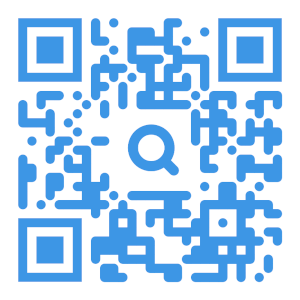
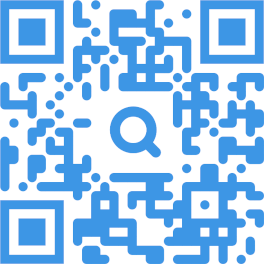
qr adjusted

diff --git a/dist/css/main.min.css b/dist/css/main.min.css
@@ -1,1 +1,1 @@
-*,::after,::before{box-sizing:border-box;margin:0;padding:0}h1,h2,h3,h4,h5,h6{margin:0;font-family:inherit;line-height:inherit;font-weight:700}address,p{margin:0}ol,ul{margin:0;padding:0;list-style:none}input,textarea{outline:0;font-family:inherit}a{color:inherit;text-decoration:none}a:hover{text-decoration:none}img{max-width:100%}@font-face{font-family:Roboto;font-style:normal;font-weight:400;font-display:swap;src:local(""),url(../fonts/roboto-v30-latin_cyrillic-ext-regular.woff2) format("woff2"),url(../fonts/roboto-v30-latin_cyrillic-ext-regular.woff) format("woff")}@font-face{font-family:Roboto;font-style:normal;font-weight:500;font-display:swap;src:local(""),url(../fonts/roboto-v30-latin_cyrillic-ext-500.woff2) format("woff2"),url(../fonts/roboto-v30-latin_cyrillic-ext-500.woff) format("woff")}@font-face{font-family:Roboto;font-style:normal;font-weight:700;font-display:swap;src:local(""),url(../fonts/roboto-v30-latin_cyrillic-ext-700.woff2) format("woff2"),url(../fonts/roboto-v30-latin_cyrillic-ext-700.woff) format("woff")}:root{scroll-behavior:smooth}::-moz-selection{color:#353642;background:#3d96e5}::selection{color:#353642;background:#3d96e5}::-moz-placeholder{color:#7c7c7c;font-family:inherit;font-size:1.125rem;text-overflow:ellipsis}::placeholder{color:#7c7c7c;font-family:inherit;font-size:1.125rem;text-overflow:ellipsis}.hero__illustration,.password-check-page__illustration,.qr-img{width:100%;height:100%;-o-object-fit:cover;object-fit:cover;-o-object-position:center;object-position:center}input[type=number]{-moz-appearance:textfield}input[type=number]::-webkit-inner-spin-button,input[type=number]::-webkit-outer-spin-button{-webkit-appearance:none}body{font-family:Roboto,sans-serif;color:#353642;font-size:1.125rem;line-height:1.1;font-weight:400;background-image:linear-gradient(180deg,rgba(0,117,255,.38) 3.74%,rgba(0,194,255,.38) 21.16%,rgba(255,255,255,.38) 44.17%);background-repeat:no-repeat;min-height:100%;padding:4rem;overflow-x:hidden}@media (max-width:767.98px){body{padding:2rem}}@media (max-width:389.98px){body{padding:2rem 0}}.container{max-width:calc(1400px + 2rem);padding:0 1rem;margin:0 auto;width:100%}.wrapper{margin:0 auto;max-width:calc(1400px + 2rem);background-color:#fff;box-shadow:0 4px 60px rgba(0,0,0,.25);border-radius:50px;padding:0 3rem}@media (max-width:767.98px){.wrapper{padding:0 1rem}}@media (max-width:575.98px){.wrapper{padding:0}}h1{color:#3d96e5;font-size:2.25rem}h2{color:#3d96e5;font-size:1.5rem}.logo{font-family:Roboto;font-weight:500;font-size:2.25rem;color:#3d96e5}.button{display:inline-block;font-size:1.125rem;color:#3d96e5;background-color:#fff;border-radius:30px;border:1px solid #3d96e5;box-shadow:0 2px 4px rgba(0,0,0,.1);padding:.625rem 1.25rem;cursor:pointer;-webkit-user-select:none;-moz-user-select:none;user-select:none;transition:.2s}@media (hover:hover){.button:hover{color:#fff;background-color:#3d96e5}}.button:active{background-color:#1970bc}.button--main{display:inline-block;font-size:1.125rem;color:#fff;background-color:#3d96e5;padding:.625rem 1.25rem;border:1px solid #3d96e5;box-shadow:0 2px 4px rgba(0,0,0,.1);border-radius:30px;cursor:pointer;-webkit-user-select:none;-moz-user-select:none;user-select:none;transition:.2s}@media (hover:hover){.button--main:hover{background-color:#1c7dd3}.burger:hover{opacity:.5}}.button--main:active{background-color:#1970bc}.qr-img-wrapper{display:block;position:relative;overflow:hidden;width:10.375rem;height:10.375rem;padding:.25rem;border:1px solid #3d96e5;border-radius:10px}.hidden{display:none!important}.visually-hidden{position:fixed;opacity:0;z-index:-100}.disabled{pointer-events:none;color:#666}input[disabled]{-webkit-user-select:none;-moz-user-select:none;user-select:none}.error-label{display:block;font-size:.875rem;color:#c92c2c;text-align:left;margin-top:.625rem;margin-right:auto;padding-left:20px}.error-input:focus{box-shadow:none!important}.error-input{border:1px solid #c92c2c!important}@-webkit-keyframes slideDown{0%{overflow:hidden;opacity:0;transform:translateY(-20%)}100%{opacity:1;transform:translateY(0)}}@keyframes slideDown{0%{overflow:hidden;opacity:0;transform:translateY(-20%)}100%{opacity:1;transform:translateY(0)}}.header{padding:2rem 0}.header__body{display:flex;justify-content:space-between;align-items:center}.burger{width:25px;height:20px;color:#3d96e5;display:none;position:relative;background-color:transparent;border:none;padding:0;cursor:pointer;z-index:50}.burger::after,.burger::before{height:2px;content:"";position:absolute;left:0;width:100%;background-color:currentColor;z-index:50;transition:transform .3s ease-in-out,top .3s ease-in-out}.burger::before{top:0}.burger::after{top:calc(100% - 2px)}.burger__line{height:2px;position:absolute;left:0;top:50%;transform:scale(1) translate(0,-50%);width:100%;background-color:currentColor;z-index:50;transition:transform .3s ease-in-out}.burger--active::before{top:50%;transform:rotate(45deg);transition:transform .3s ease-in-out,top .3s ease-in-out}.burger--active::after{top:50%;transform:rotate(-45deg);transition:transform .3s ease-in-out,top .3s ease-in-out}.burger--active .burger__line{transform:scale(0);transition:transform .3s ease-in-out}@media (max-width:767.98px){.burger{display:block}.burger-menu-overlay{overflow:hidden;position:fixed;width:100%;height:100vh;background-color:rgba(25,25,25,.7);z-index:28;transition:.3s}.header__nav{background-color:#fff;width:calc(100% - 4rem);position:fixed;bottom:0;right:-100%;height:calc(100% - 2rem);border-top-left-radius:50px;border-top-right-radius:50px;visibility:hidden;opacity:0;overflow:hidden;padding:3rem 1rem;z-index:29;transition:.4s}.burger-menu--active.header__nav{visibility:visible;right:2rem;opacity:1}}@media (max-width:767.98px) and (max-width:389.98px){.header__nav{width:100%}.burger-menu--active.header__nav{right:0}}@media (max-width:767.98px){.header__nav>.nav__list{display:flex;flex-direction:column;text-align:center;width:100%;overflow-y:auto}.header__nav>.nav__list>.nav__item{white-space:unset;padding:1rem}}.nav{display:flex;align-items:center}.nav__list{display:flex;flex-flow:row nowrap;gap:1rem}.nav__item{white-space:nowrap}.hero{position:relative;overflow:hidden;z-index:2}.hero__body{padding:11.25rem 0 2rem}@media (max-width:1365.98px){.hero__body{padding:2rem 0;text-align:center}.hero__qr-body{display:none}}@media (max-width:767.98px){.nav__list{gap:0}.hero__body{padding:1rem 0 2rem}}@media (min-width:1365.98px){.hero__body.open{transform:translateY(-10%);transition:transform .3s linear}}.hero__title{color:#3d96e5;font-size:2.25rem;margin-bottom:1.875rem}@media (max-width:991.98px){.hero__title{font-size:1.875rem}}@media (max-width:767.98px){.hero__title{font-size:1.625rem}}@media (max-width:575.98px){.hero__body{padding:0 0 2rem}.hero__title{font-size:1.375rem}}.hero__qr-title{color:#3d96e5;font-size:1.5rem;margin-bottom:.875rem}@media (max-width:767.98px){.hero__qr-title{font-size:1.25rem}}@media (max-width:575.98px){.hero__qr-title{font-size:1.125rem}}.hero__qr-body{visibility:hidden;opacity:0;transition:.1s linear}.hero__qr-body.open{display:block;visibility:visible;opacity:1;-webkit-animation:.3s slideDown;animation:.3s slideDown}.hero__illustration-wrapper{position:absolute;overflow:hidden;height:600px;width:auto;bottom:0;right:0;z-index:-1}@media (max-width:1365.98px){.hero__qr-img-wrapper{margin:0 auto}.form__input-wrapper--short-link,.hero__illustration-wrapper{display:none}}.form__input-wrapper{position:relative;margin-bottom:1.75rem}.form__input-wrapper--long-link{max-width:54rem}@media (max-width:1439.98px){.form__input-wrapper--long-link{max-width:49rem}}.form__input-wrapper--short-link{max-width:29.375rem;visibility:hidden;opacity:0;transition:.1s linear}.form__input-wrapper--short-link.open{display:block;visibility:visible;opacity:1;-webkit-animation:.3s slideDown;animation:.3s slideDown}@media (max-width:767.98px){.form__input-wrapper{font-size:1.625rem;margin-bottom:.875rem}}.form__input{font-family:Roboto;font-weight:400;font-size:1.125rem;padding:15px 60px 15px 20px;width:100%;border:1px solid #3d96e5;border-radius:30px;transition:.2s}.form__input--long-link:focus{box-shadow:3px 3px 20px #3d96e5}.form__button{position:absolute;top:7px;right:10px;width:40px;height:40px;background-color:#3d96e5;border:1px solid #3d96e5;border-radius:30px;cursor:pointer;transition:.1s linear}.form__button--copy,.form__button--submit{padding:10px}@media (hover:hover){.form__button:hover{opacity:.9}}.form__button:active{background-color:#1970bc}.form__button svg{width:20px;height:20px;fill:#fff;transition:opacity .1s linear}.loader{pointer-events:none;border:1px solid #fff;background-color:#fff;-webkit-animation:1s linear infinite rotate;animation:1s linear infinite rotate}.loader svg{opacity:0;transition:opacity .1s linear}.loader::after{content:"";position:absolute;inset:4px;border:2px solid #7c7c7c;background-color:#fff;border-radius:50%;-webkit-animation:2s linear infinite slowFilling;animation:2s linear infinite slowFilling}@-webkit-keyframes rotate{0%{overflow:hidden}100%{transform:rotate(360deg)}}@keyframes rotate{0%{overflow:hidden}100%{transform:rotate(360deg)}}@-webkit-keyframes slowFilling{0%{-webkit-clip-path:polygon(50% 50%,0 0,0 0,0 0,0 0,0 0);clip-path:polygon(50% 50%,0 0,0 0,0 0,0 0,0 0)}25%{-webkit-clip-path:polygon(50% 50%,0 0,100% 0,100% 0,100% 0,100% 0);clip-path:polygon(50% 50%,0 0,100% 0,100% 0,100% 0,100% 0)}50%{-webkit-clip-path:polygon(50% 50%,0 0,100% 0,100% 100%,100% 100%,100% 100%);clip-path:polygon(50% 50%,0 0,100% 0,100% 100%,100% 100%,100% 100%)}75%{-webkit-clip-path:polygon(50% 50%,0 0,100% 0,100% 100%,0 100%,0 100%);clip-path:polygon(50% 50%,0 0,100% 0,100% 100%,0 100%,0 100%)}100%{-webkit-clip-path:polygon(50% 50%,0 0,100% 0,100% 100%,0 100%,0 0);clip-path:polygon(50% 50%,0 0,100% 0,100% 100%,0 100%,0 0)}}@keyframes slowFilling{0%{-webkit-clip-path:polygon(50% 50%,0 0,0 0,0 0,0 0,0 0);clip-path:polygon(50% 50%,0 0,0 0,0 0,0 0,0 0)}25%{-webkit-clip-path:polygon(50% 50%,0 0,100% 0,100% 0,100% 0,100% 0);clip-path:polygon(50% 50%,0 0,100% 0,100% 0,100% 0,100% 0)}50%{-webkit-clip-path:polygon(50% 50%,0 0,100% 0,100% 100%,100% 100%,100% 100%);clip-path:polygon(50% 50%,0 0,100% 0,100% 100%,100% 100%,100% 100%)}75%{-webkit-clip-path:polygon(50% 50%,0 0,100% 0,100% 100%,0 100%,0 100%);clip-path:polygon(50% 50%,0 0,100% 0,100% 100%,0 100%,0 100%)}100%{-webkit-clip-path:polygon(50% 50%,0 0,100% 0,100% 100%,0 100%,0 0);clip-path:polygon(50% 50%,0 0,100% 0,100% 100%,0 100%,0 0)}}.checkmark{pointer-events:none;border:1px solid #0cbc8b;background-color:#0cbc8b;transition:.2s}.checkmark svg{opacity:0;transition:opacity .1s linear}.checkmark::after{content:"";position:absolute;height:14px;width:8px;opacity:1;transform-origin:left top;border-right:2px solid #fff;border-top:2px solid #fff;top:20px;right:18px;-webkit-animation:.5s showCheckmark;animation:.5s showCheckmark;transform:scaleX(-1) rotate(135deg)}@-webkit-keyframes showCheckmark{0%{height:0;width:0;opacity:1}20%{height:6px;width:4px;opacity:1}40%{height:10px;width:6px;opacity:1}100%{height:14px;width:8px;opacity:1}}@keyframes showCheckmark{0%{height:0;width:0;opacity:1}20%{height:6px;width:4px;opacity:1}40%{height:10px;width:6px;opacity:1}100%{height:14px;width:8px;opacity:1}}.about{margin-top:4rem}.about__body{display:flex;justify-content:center;align-items:center;gap:2rem 8rem}.about__illustration-img-wrapper{max-width:31.25rem}.about__content{padding-top:5rem}@media (max-width:1365.98px){.form__input-wrapper{margin-right:auto;margin-left:auto}.about__body{flex-direction:column-reverse}.about__content{padding-top:0}}.about__title{margin-bottom:2rem;padding-left:1.25rem}@media (max-width:767.98px){.about__content{width:100%}.about__title{font-size:1.625rem}}@media (max-width:575.98px){.about__title{font-size:1.375rem}}.about__list{margin-bottom:3rem}.about__list-item{font-size:1.25rem;line-height:1.3;position:relative;padding-left:2.5rem;margin-left:1.25rem}.about__list-item:not(:last-child){margin-bottom:1.75rem}.about__list-item::before{content:"";display:inline-flex;position:absolute;width:20px;height:20px;top:3px;left:0;background:url(../img/icon_check-mark.svg)}.about__button{display:block;margin:1rem auto;font-weight:600}.off-limits-page{height:calc(100vh - 7.5rem);min-height:31.5rem;position:relative}@media (max-width:767.98px){.about__list-item::before{top:2px}.about__list-item{font-size:1.125rem}.off-limits-page{height:calc(100vh - 4rem)}}.off-limits-page__body{display:flex;flex-direction:column;justify-content:center;align-items:center;position:absolute;top:50%;left:50%;transform:translate(-50%,-50%)}.off-limits-page__img-wrapper{margin:0 auto 1.75rem;opacity:.5}.off-limits-page__title{font-size:2rem;color:#3d96e5;font-weight:500;opacity:.5;text-align:center}@media (max-width:991.98px){.off-limits-page__title{font-size:1.875rem}}@media (max-width:767.98px){.off-limits-page__title{font-size:1.625rem}}@media (max-width:575.98px){.off-limits-page__title{font-size:1.25rem}}.password-check-page{height:calc(100vh - 7.5rem);min-height:31.5rem;position:relative}@media (max-width:767.98px){.password-check-page{height:calc(100vh - 4rem)}}.password-check-page__body{position:absolute;top:50%;left:50%;transform:translate(-50%,-50%)}.password-check-page__illustration-wrapper{max-width:21.875rem;min-width:18.75rem;overflow:hidden}.form__input-wrapper--password-check{display:block;max-width:29.25rem}.form__input--password-check:focus{box-shadow:3px 3px 20px #3d96e5}
+*,::after,::before{box-sizing:border-box;margin:0;padding:0}h1,h2,h3,h4,h5,h6{margin:0;font-family:inherit;line-height:inherit;font-weight:700}address,p{margin:0}ol,ul{margin:0;padding:0;list-style:none}input,textarea{outline:0;font-family:inherit}a{color:inherit;text-decoration:none}a:hover{text-decoration:none}img{max-width:100%}@font-face{font-family:Roboto;font-style:normal;font-weight:400;font-display:swap;src:local(""),url(../fonts/roboto-v30-latin_cyrillic-ext-regular.woff2) format("woff2"),url(../fonts/roboto-v30-latin_cyrillic-ext-regular.woff) format("woff")}@font-face{font-family:Roboto;font-style:normal;font-weight:500;font-display:swap;src:local(""),url(../fonts/roboto-v30-latin_cyrillic-ext-500.woff2) format("woff2"),url(../fonts/roboto-v30-latin_cyrillic-ext-500.woff) format("woff")}@font-face{font-family:Roboto;font-style:normal;font-weight:700;font-display:swap;src:local(""),url(../fonts/roboto-v30-latin_cyrillic-ext-700.woff2) format("woff2"),url(../fonts/roboto-v30-latin_cyrillic-ext-700.woff) format("woff")}:root{scroll-behavior:smooth}::-moz-selection{color:#353642;background:#3d96e5}::selection{color:#353642;background:#3d96e5}::-moz-placeholder{color:#7c7c7c;font-family:inherit;font-size:1.125rem;text-overflow:ellipsis}::placeholder{color:#7c7c7c;font-family:inherit;font-size:1.125rem;text-overflow:ellipsis}.hero__illustration,.password-check-page__illustration,.qr-img{width:100%;height:100%;-o-object-fit:cover;object-fit:cover;-o-object-position:center;object-position:center}input[type=number]{-moz-appearance:textfield}input[type=number]::-webkit-inner-spin-button,input[type=number]::-webkit-outer-spin-button{-webkit-appearance:none}body{font-family:Roboto,sans-serif;color:#353642;font-size:1.125rem;line-height:1.1;font-weight:400;background-image:linear-gradient(180deg,rgba(0,117,255,.38) 3.74%,rgba(0,194,255,.38) 21.16%,rgba(255,255,255,.38) 44.17%);background-repeat:no-repeat;min-height:100%;padding:4rem;overflow-x:hidden}@media (max-width:767.98px){body{padding:2rem}}@media (max-width:389.98px){body{padding:2rem 0}}.container{max-width:calc(1400px + 2rem);padding:0 1rem;margin:0 auto;width:100%}.wrapper{margin:0 auto;max-width:calc(1400px + 2rem);background-color:#fff;box-shadow:0 4px 60px rgba(0,0,0,.25);border-radius:50px;padding:0 3rem}@media (max-width:767.98px){.wrapper{padding:0 1rem}}@media (max-width:575.98px){.wrapper{padding:0}}h1{color:#3d96e5;font-size:2.25rem}h2{color:#3d96e5;font-size:1.5rem}.logo{font-family:Roboto;font-weight:500;font-size:2.25rem;color:#3d96e5}.button{display:inline-block;font-size:1.125rem;color:#3d96e5;background-color:#fff;border-radius:30px;border:1px solid #3d96e5;box-shadow:0 2px 4px rgba(0,0,0,.1);padding:.625rem 1.25rem;cursor:pointer;-webkit-user-select:none;-moz-user-select:none;user-select:none;transition:.2s}@media (hover:hover){.button:hover{color:#fff;background-color:#3d96e5}}.button:active{background-color:#1970bc}.button--main{display:inline-block;font-size:1.125rem;color:#fff;background-color:#3d96e5;padding:.625rem 1.25rem;border:1px solid #3d96e5;box-shadow:0 2px 4px rgba(0,0,0,.1);border-radius:30px;cursor:pointer;-webkit-user-select:none;-moz-user-select:none;user-select:none;transition:.2s}@media (hover:hover){.button--main:hover{background-color:#1c7dd3}.burger:hover{opacity:.5}}.button--main:active{background-color:#1970bc}.qr-img-wrapper{display:block;position:relative;overflow:hidden;width:10.375rem;height:10.375rem;padding:1rem;border:1px solid #3d96e5;border-radius:10px}.hidden{display:none!important}.visually-hidden{position:fixed;opacity:0;z-index:-100}.disabled{pointer-events:none;color:#666}input[disabled]{-webkit-user-select:none;-moz-user-select:none;user-select:none}.error-label{display:block;font-size:.875rem;color:#c92c2c;text-align:left;margin-top:.625rem;margin-right:auto;padding-left:20px}.error-input:focus{box-shadow:none!important}.error-input{border:1px solid #c92c2c!important}@-webkit-keyframes slideDown{0%{overflow:hidden;opacity:0;transform:translateY(-20%)}100%{opacity:1;transform:translateY(0)}}@keyframes slideDown{0%{overflow:hidden;opacity:0;transform:translateY(-20%)}100%{opacity:1;transform:translateY(0)}}.header{padding:2rem 0}.header__body{display:flex;justify-content:space-between;align-items:center}.burger{width:25px;height:20px;color:#3d96e5;display:none;position:relative;background-color:transparent;border:none;padding:0;cursor:pointer;z-index:50}.burger::after,.burger::before{height:2px;content:"";position:absolute;left:0;width:100%;background-color:currentColor;z-index:50;transition:transform .3s ease-in-out,top .3s ease-in-out}.burger::before{top:0}.burger::after{top:calc(100% - 2px)}.burger__line{height:2px;position:absolute;left:0;top:50%;transform:scale(1) translate(0,-50%);width:100%;background-color:currentColor;z-index:50;transition:transform .3s ease-in-out}.burger--active::before{top:50%;transform:rotate(45deg);transition:transform .3s ease-in-out,top .3s ease-in-out}.burger--active::after{top:50%;transform:rotate(-45deg);transition:transform .3s ease-in-out,top .3s ease-in-out}.burger--active .burger__line{transform:scale(0);transition:transform .3s ease-in-out}@media (max-width:767.98px){.burger{display:block}.burger-menu-overlay{overflow:hidden;position:fixed;width:100%;height:100vh;background-color:rgba(25,25,25,.7);z-index:28;transition:.3s}.header__nav{background-color:#fff;width:calc(100% - 4rem);position:fixed;bottom:0;right:-100%;height:calc(100% - 2rem);border-top-left-radius:50px;border-top-right-radius:50px;visibility:hidden;opacity:0;overflow:hidden;padding:3rem 1rem;z-index:29;transition:.4s}.burger-menu--active.header__nav{visibility:visible;right:2rem;opacity:1}}@media (max-width:767.98px) and (max-width:389.98px){.header__nav{width:100%}.burger-menu--active.header__nav{right:0}}@media (max-width:767.98px){.header__nav>.nav__list{display:flex;flex-direction:column;text-align:center;width:100%;overflow-y:auto}.header__nav>.nav__list>.nav__item{white-space:unset;padding:1rem}}.nav{display:flex;align-items:center}.nav__list{display:flex;flex-flow:row nowrap;gap:1rem}.nav__item{white-space:nowrap}.hero{position:relative;overflow:hidden;z-index:2}.hero__body{padding:11.25rem 0 2rem}@media (max-width:1365.98px){.hero__body{padding:2rem 0;text-align:center}.hero__qr-body{display:none}}@media (max-width:767.98px){.nav__list{gap:0}.hero__body{padding:1rem 0 2rem}}@media (min-width:1365.98px){.hero__body.open{transform:translateY(-10%);transition:transform .3s linear}}.hero__title{color:#3d96e5;font-size:2.25rem;margin-bottom:1.875rem}@media (max-width:991.98px){.hero__title{font-size:1.875rem}}@media (max-width:767.98px){.hero__title{font-size:1.625rem}}@media (max-width:575.98px){.hero__body{padding:0 0 2rem}.hero__title{font-size:1.375rem}}.hero__qr-title{color:#3d96e5;font-size:1.5rem;margin-bottom:.875rem}@media (max-width:767.98px){.hero__qr-title{font-size:1.25rem}}@media (max-width:575.98px){.hero__qr-title{font-size:1.125rem}}.hero__qr-body{visibility:hidden;opacity:0;transition:.1s linear}.hero__qr-body.open{display:block;visibility:visible;opacity:1;-webkit-animation:.3s slideDown;animation:.3s slideDown}.hero__illustration-wrapper{position:absolute;overflow:hidden;height:600px;width:auto;bottom:0;right:0;z-index:-1}@media (max-width:1365.98px){.hero__qr-img-wrapper{margin:0 auto}.form__input-wrapper--short-link,.hero__illustration-wrapper{display:none}}.form__input-wrapper{position:relative;margin-bottom:1.75rem}.form__input-wrapper--long-link{max-width:54rem}@media (max-width:1439.98px){.form__input-wrapper--long-link{max-width:49rem}}.form__input-wrapper--short-link{max-width:29.375rem;visibility:hidden;opacity:0;transition:.1s linear}.form__input-wrapper--short-link.open{display:block;visibility:visible;opacity:1;-webkit-animation:.3s slideDown;animation:.3s slideDown}@media (max-width:767.98px){.form__input-wrapper{font-size:1.625rem;margin-bottom:.875rem}}.form__input{font-family:Roboto;font-weight:400;font-size:1.125rem;padding:15px 60px 15px 20px;width:100%;border:1px solid #3d96e5;border-radius:30px;transition:.2s}.form__input--long-link:focus{box-shadow:3px 3px 20px #3d96e5}.form__button{position:absolute;top:7px;right:10px;width:40px;height:40px;background-color:#3d96e5;border:1px solid #3d96e5;border-radius:30px;cursor:pointer;transition:.1s linear}.form__button--copy,.form__button--submit{padding:10px}@media (hover:hover){.form__button:hover{opacity:.9}}.form__button:active{background-color:#1970bc}.form__button svg{width:20px;height:20px;fill:#fff;transition:opacity .1s linear}.loader{pointer-events:none;border:1px solid #fff;background-color:#fff;-webkit-animation:1s linear infinite rotate;animation:1s linear infinite rotate}.loader svg{opacity:0;transition:opacity .1s linear}.loader::after{content:"";position:absolute;inset:4px;border:2px solid #7c7c7c;background-color:#fff;border-radius:50%;-webkit-animation:2s linear infinite slowFilling;animation:2s linear infinite slowFilling}@-webkit-keyframes rotate{0%{overflow:hidden}100%{transform:rotate(360deg)}}@keyframes rotate{0%{overflow:hidden}100%{transform:rotate(360deg)}}@-webkit-keyframes slowFilling{0%{-webkit-clip-path:polygon(50% 50%,0 0,0 0,0 0,0 0,0 0);clip-path:polygon(50% 50%,0 0,0 0,0 0,0 0,0 0)}25%{-webkit-clip-path:polygon(50% 50%,0 0,100% 0,100% 0,100% 0,100% 0);clip-path:polygon(50% 50%,0 0,100% 0,100% 0,100% 0,100% 0)}50%{-webkit-clip-path:polygon(50% 50%,0 0,100% 0,100% 100%,100% 100%,100% 100%);clip-path:polygon(50% 50%,0 0,100% 0,100% 100%,100% 100%,100% 100%)}75%{-webkit-clip-path:polygon(50% 50%,0 0,100% 0,100% 100%,0 100%,0 100%);clip-path:polygon(50% 50%,0 0,100% 0,100% 100%,0 100%,0 100%)}100%{-webkit-clip-path:polygon(50% 50%,0 0,100% 0,100% 100%,0 100%,0 0);clip-path:polygon(50% 50%,0 0,100% 0,100% 100%,0 100%,0 0)}}@keyframes slowFilling{0%{-webkit-clip-path:polygon(50% 50%,0 0,0 0,0 0,0 0,0 0);clip-path:polygon(50% 50%,0 0,0 0,0 0,0 0,0 0)}25%{-webkit-clip-path:polygon(50% 50%,0 0,100% 0,100% 0,100% 0,100% 0);clip-path:polygon(50% 50%,0 0,100% 0,100% 0,100% 0,100% 0)}50%{-webkit-clip-path:polygon(50% 50%,0 0,100% 0,100% 100%,100% 100%,100% 100%);clip-path:polygon(50% 50%,0 0,100% 0,100% 100%,100% 100%,100% 100%)}75%{-webkit-clip-path:polygon(50% 50%,0 0,100% 0,100% 100%,0 100%,0 100%);clip-path:polygon(50% 50%,0 0,100% 0,100% 100%,0 100%,0 100%)}100%{-webkit-clip-path:polygon(50% 50%,0 0,100% 0,100% 100%,0 100%,0 0);clip-path:polygon(50% 50%,0 0,100% 0,100% 100%,0 100%,0 0)}}.checkmark{pointer-events:none;border:1px solid #0cbc8b;background-color:#0cbc8b;transition:.2s}.checkmark svg{opacity:0;transition:opacity .1s linear}.checkmark::after{content:"";position:absolute;height:14px;width:8px;opacity:1;transform-origin:left top;border-right:2px solid #fff;border-top:2px solid #fff;top:20px;right:18px;-webkit-animation:.5s showCheckmark;animation:.5s showCheckmark;transform:scaleX(-1) rotate(135deg)}@-webkit-keyframes showCheckmark{0%{height:0;width:0;opacity:1}20%{height:6px;width:4px;opacity:1}40%{height:10px;width:6px;opacity:1}100%{height:14px;width:8px;opacity:1}}@keyframes showCheckmark{0%{height:0;width:0;opacity:1}20%{height:6px;width:4px;opacity:1}40%{height:10px;width:6px;opacity:1}100%{height:14px;width:8px;opacity:1}}.about{margin-top:4rem}.about__body{display:flex;justify-content:center;align-items:center;gap:2rem 8rem}.about__illustration-img-wrapper{max-width:31.25rem}.about__content{padding-top:5rem}@media (max-width:1365.98px){.form__input-wrapper{margin-right:auto;margin-left:auto}.about__body{flex-direction:column-reverse}.about__content{padding-top:0}}.about__title{margin-bottom:2rem;padding-left:1.25rem}@media (max-width:767.98px){.about__content{width:100%}.about__title{font-size:1.625rem}}@media (max-width:575.98px){.about__title{font-size:1.375rem}}.about__list{margin-bottom:3rem}.about__list-item{font-size:1.25rem;line-height:1.3;position:relative;padding-left:2.5rem;margin-left:1.25rem}.about__list-item:not(:last-child){margin-bottom:1.75rem}.about__list-item::before{content:"";display:inline-flex;position:absolute;width:20px;height:20px;top:3px;left:0;background:url(../img/icon_check-mark.svg)}.about__button{display:block;margin:1rem auto;font-weight:600}.off-limits-page{height:calc(100vh - 7.5rem);min-height:31.5rem;position:relative}@media (max-width:767.98px){.about__list-item::before{top:2px}.about__list-item{font-size:1.125rem}.off-limits-page{height:calc(100vh - 4rem)}}.off-limits-page__body{display:flex;flex-direction:column;justify-content:center;align-items:center;position:absolute;top:50%;left:50%;transform:translate(-50%,-50%)}.off-limits-page__img-wrapper{margin:0 auto 1.75rem;opacity:.5}.off-limits-page__title{font-size:2rem;color:#3d96e5;font-weight:500;opacity:.5;text-align:center}@media (max-width:991.98px){.off-limits-page__title{font-size:1.875rem}}@media (max-width:767.98px){.off-limits-page__title{font-size:1.625rem}}@media (max-width:575.98px){.off-limits-page__title{font-size:1.25rem}}.password-check-page{height:calc(100vh - 7.5rem);min-height:31.5rem;position:relative}@media (max-width:767.98px){.password-check-page{height:calc(100vh - 4rem)}}.password-check-page__body{position:absolute;top:50%;left:50%;transform:translate(-50%,-50%)}.password-check-page__illustration-wrapper{max-width:21.875rem;min-width:18.75rem;overflow:hidden}.form__input-wrapper--password-check{display:block;max-width:29.25rem}.form__input--password-check:focus{box-shadow:3px 3px 20px #3d96e5}

diff --git a/src/scss/_global.scss b/src/scss/_global.scss
@@ -162,7 +162,7 @@ h2 {
   overflow: hidden;
   width: rem(166);
   height: rem(166);
-  padding: rem(4);
+  padding: rem(16);
   border: 1px solid $accent;
   border-radius: 10px;
 }
